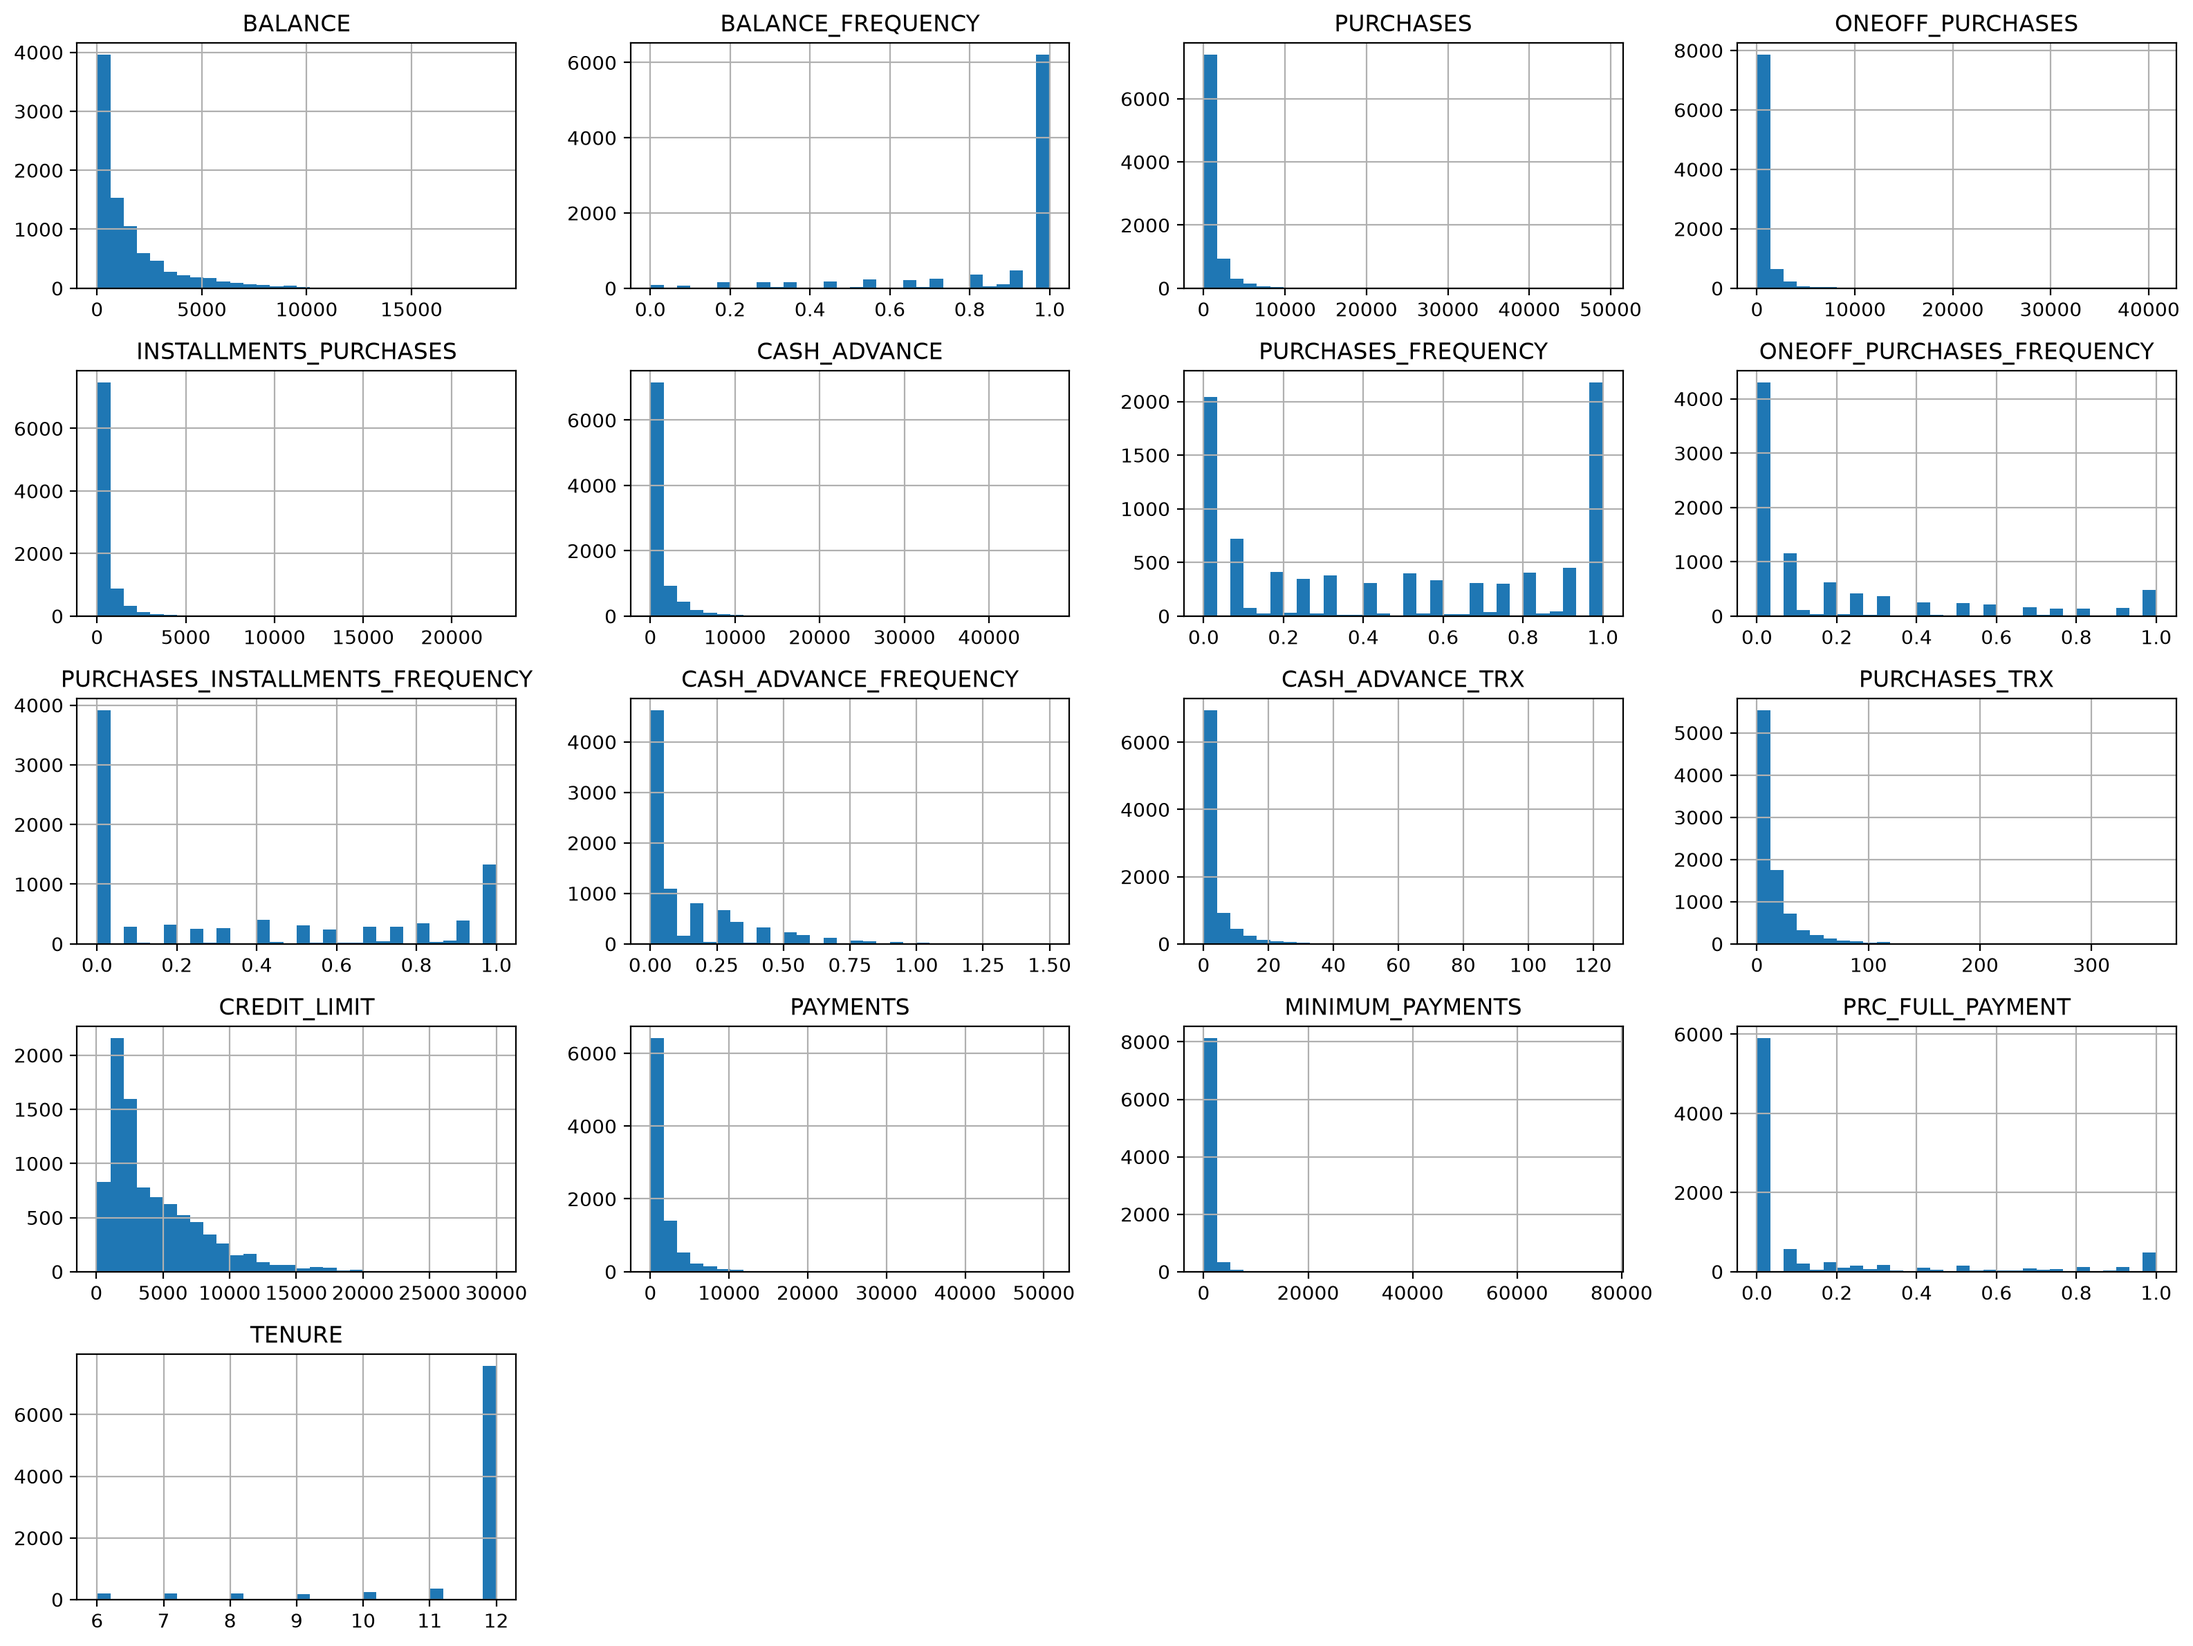
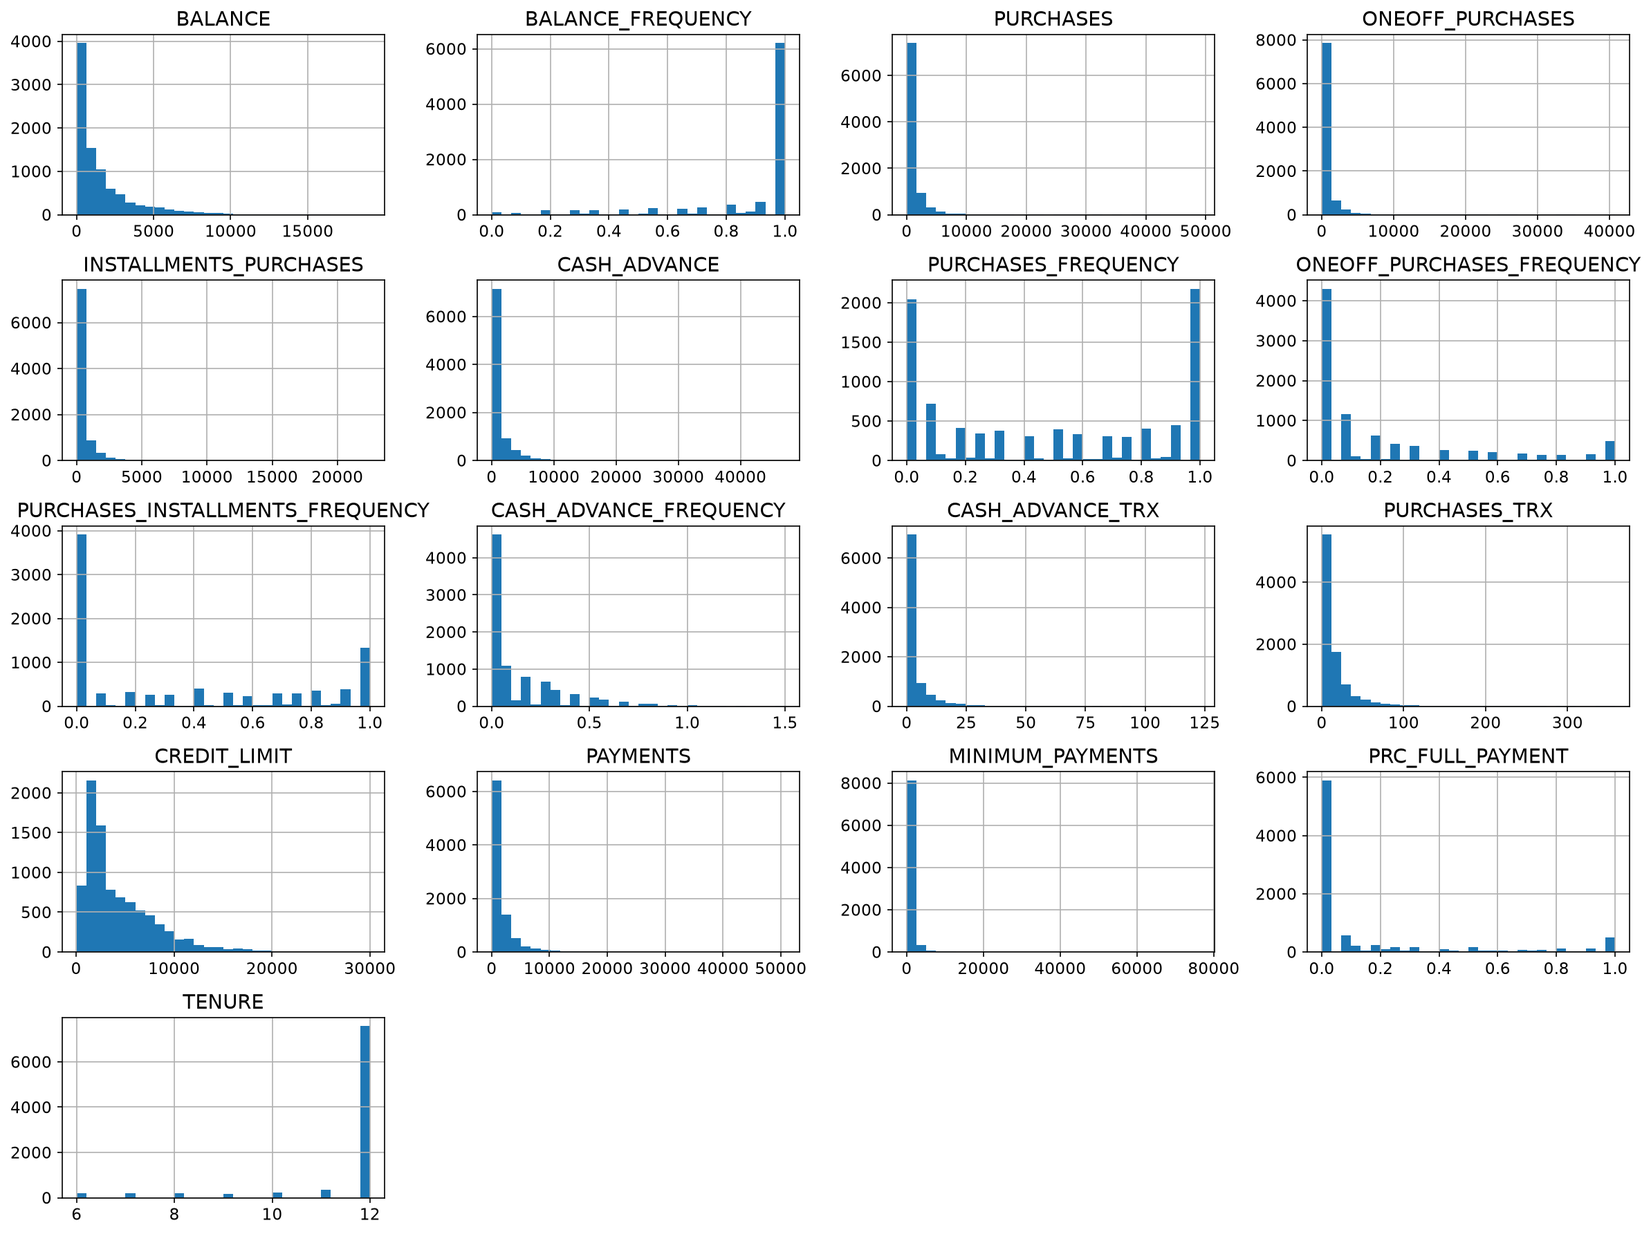
update readme with eda

diff --git a/README.md b/README.md
@@ -84,33 +84,98 @@ el clustering.
 
 ### Calidad de los datos
 
-Se revisaron valores faltantes y registros duplicados antes del modelado.
+Se revisaron valores faltantes y registros duplicados.
 
-Los valores faltantes se concentran en `CREDIT_LIMIT` y
-`MINIMUM_PAYMENTS`. Debido al reducido número de faltantes en
-`CREDIT_LIMIT` y a la marcada asimetría presente en variables monetarias, los
-valores faltantes se trataron mediante imputación con la mediana.
+Se detectó que dos variables tienen valores nulos:
 
-`CUST_ID` se eliminó antes del modelado, ya que representa únicamente un
-identificador y su inclusión introduciría distancias sin significado entre
-clientes.
+| Variable | Valores nulos | Porcentaje |
+|---|---:|---:|
+| `CREDIT_LIMIT` | 1 | 0.01% |
+| `MINIMUM_PAYMENTS` | 313 | 3.50% |
 
-La base procesada conserva finalmente **8.950 observaciones y 17 variables
-de comportamiento**.
+`CREDIT_LIMIT` representa el límite de crédito asignado al cliente, mientras que
+`MINIMUM_PAYMENTS` corresponde al monto asociado a pagos mínimos.
+
+Dado el contexto se planea imputar, y antes de hacerlo se compara la media y la mediana de
+ambas variables:
+
+| Variable | Media | Mediana |
+|---|---:|---:|
+| `CREDIT_LIMIT` | 4494.45 | 3000.00 |
+| `MINIMUM_PAYMENTS` | 864.21 | 312.34 |
+
+En ambos casos la media supera la mediana lo que sugiere que las
+distribuciones pueden estar influenciadas por valores elevados, por ello se imputa con la **mediana** ya que resulta menos sensible a valores extremos que la media.
+
+`CUST_ID` se eliminó antes del modelado porque funciona únicamente como
+identificador del cliente.
+
+Después de estas decisiones, la base procesada conserva **8.950 clientes y
+17 variables de comportamiento**.
 
 ### Distribución de las variables
+
+|                                  |   count |    mean |     std |   min |     25% |     50% |     75% |     max |
+|:---------------------------------|--------:|--------:|--------:|------:|--------:|--------:|--------:|--------:|
+| BALANCE                          |    8950 | 1564.47 | 2081.53 |  0    |  128.28 |  873.39 | 2054.14 | 19043.1 |
+| BALANCE_FREQUENCY                |    8950 |    0.88 |    0.24 |  0    |    0.89 |    1    |    1    |     1   |
+| PURCHASES                        |    8950 | 1003.2  | 2136.63 |  0    |   39.64 |  361.28 | 1110.13 | 49039.6 |
+| ONEOFF_PURCHASES                 |    8950 |  592.44 | 1659.89 |  0    |    0    |   38    |  577.4  | 40761.2 |
+| INSTALLMENTS_PURCHASES           |    8950 |  411.07 |  904.34 |  0    |    0    |   89    |  468.64 | 22500   |
+| CASH_ADVANCE                     |    8950 |  978.87 | 2097.16 |  0    |    0    |    0    | 1113.82 | 47137.2 |
+| PURCHASES_FREQUENCY              |    8950 |    0.49 |    0.4  |  0    |    0.08 |    0.5  |    0.92 |     1   |
+| ONEOFF_PURCHASES_FREQUENCY       |    8950 |    0.2  |    0.3  |  0    |    0    |    0.08 |    0.3  |     1   |
+| PURCHASES_INSTALLMENTS_FREQUENCY |    8950 |    0.36 |    0.4  |  0    |    0    |    0.17 |    0.75 |     1   |
+| CASH_ADVANCE_FREQUENCY           |    8950 |    0.14 |    0.2  |  0    |    0    |    0    |    0.22 |     1.5 |
+| CASH_ADVANCE_TRX                 |    8950 |    3.25 |    6.82 |  0    |    0    |    0    |    4    |   123   |
+| PURCHASES_TRX                    |    8950 |   14.71 |   24.86 |  0    |    1    |    7    |   17    |   358   |
+| CREDIT_LIMIT                     |    8950 | 4494.28 | 3638.65 | 50    | 1600    | 3000    | 6500    | 30000   |
+| PAYMENTS                         |    8950 | 1733.14 | 2895.06 |  0    |  383.28 |  856.9  | 1901.13 | 50721.5 |
+| MINIMUM_PAYMENTS                 |    8950 |  844.91 | 2332.79 |  0.02 |  170.86 |  312.34 |  788.71 | 76406.2 |
+| PRC_FULL_PAYMENT                 |    8950 |    0.15 |    0.29 |  0    |    0    |    0    |    0.14 |     1   |
+| TENURE                           |    8950 |   11.52 |    1.34 |  6    |   12    |   12    |   12    |    12   |
 
 Las variables presentan comportamientos considerablemente diferentes según
 su naturaleza. Los montos y conteos muestran, en varios casos, una fuerte
 concentración en valores bajos junto con colas derechas pronunciadas,
 especialmente en compras, adelantos de efectivo y pagos.
 
-En cambio, las variables de frecuencia y proporción se encuentran
-naturalmente acotadas, principalmente entre 0 y 1. Por ello, una distribución
-asimétrica no implica automáticamente que todas las variables deban recibir
-la misma transformación.
-
 ![Distribución de las variables](figures/feature_distributions.png)
+
+
+### Análisis de asimetría
+
+El coeficiente de asimetría confirma lo observado previamente en las
+distribuciones: varias variables presentan colas pronunciadas,
+especialmente aquellas asociadas a montos y actividad transaccional.
+
+|                                  |       |
+|:---------------------------------|------:|
+| MINIMUM_PAYMENTS                 | 13.85 |
+| ONEOFF_PURCHASES                 | 10.05 |
+| PURCHASES                        |  8.14 |
+| INSTALLMENTS_PURCHASES           |  7.3  |
+| PAYMENTS                         |  5.91 |
+| CASH_ADVANCE_TRX                 |  5.72 |
+| CASH_ADVANCE                     |  5.17 |
+| PURCHASES_TRX                    |  4.63 |
+| BALANCE                          |  2.39 |
+| PRC_FULL_PAYMENT                 |  1.94 |
+| CASH_ADVANCE_FREQUENCY           |  1.83 |
+| ONEOFF_PURCHASES_FREQUENCY       |  1.54 |
+| CREDIT_LIMIT                     |  1.52 |
+| PURCHASES_INSTALLMENTS_FREQUENCY |  0.51 |
+| PURCHASES_FREQUENCY              |  0.06 |
+| BALANCE_FREQUENCY                | -2.02 |
+| TENURE                           | -2.94 |
+
+Dado que el modelado posterior utiliza **K-Means**, un método basado en
+distancias, estas distribuciones pueden influir de forma desproporcionada en la
+formación de los grupos.
+
+Por ello, en la etapa de modelado se evaluarán transformaciones para reducir la
+asimetría de las variables pertinentes y posteriormente se aplicará
+estandarización para homogeneizar sus escalas.
 
 
 ### Boxplot de variables
